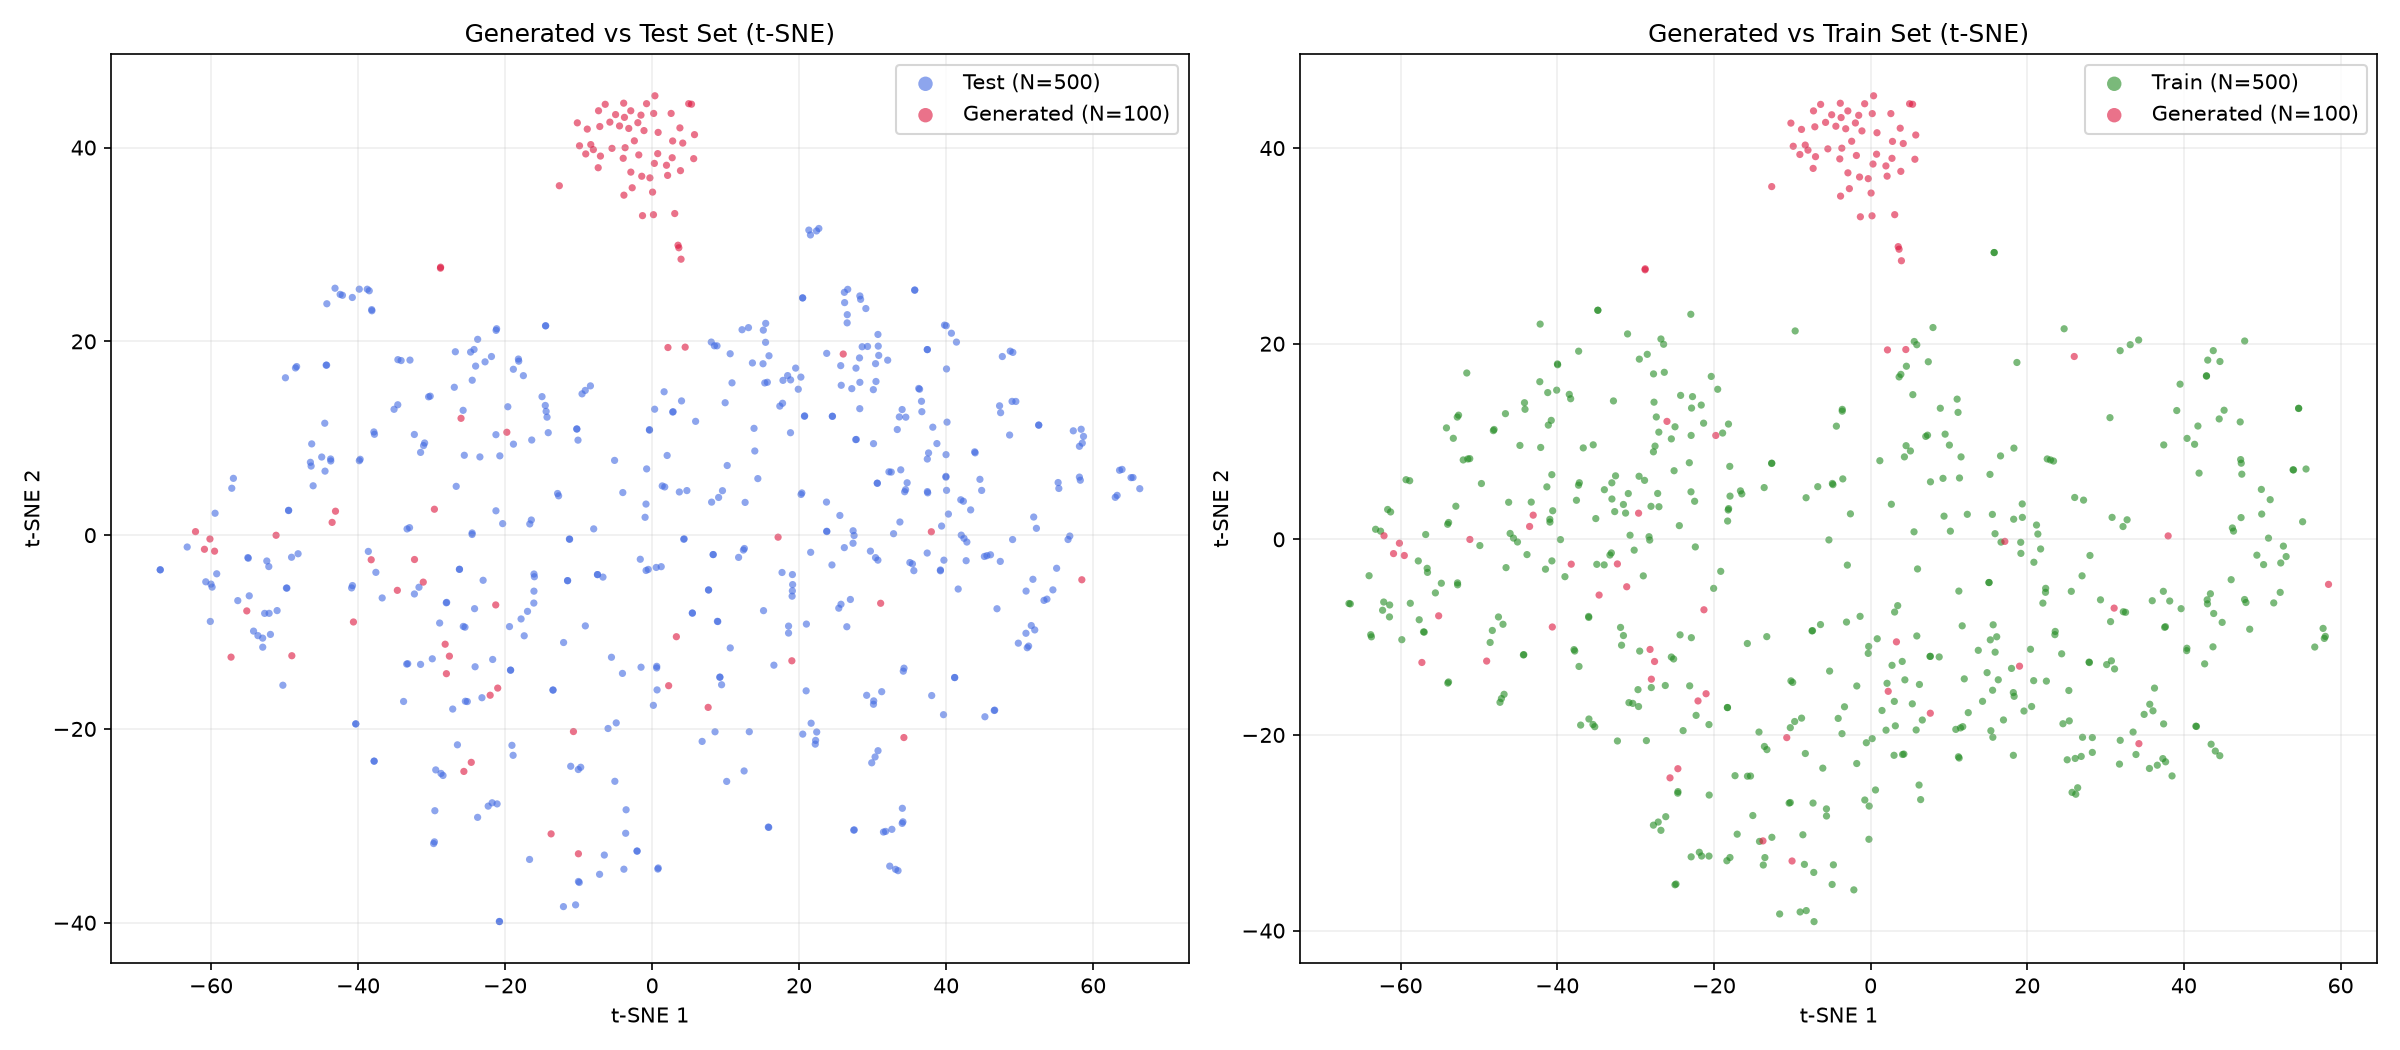
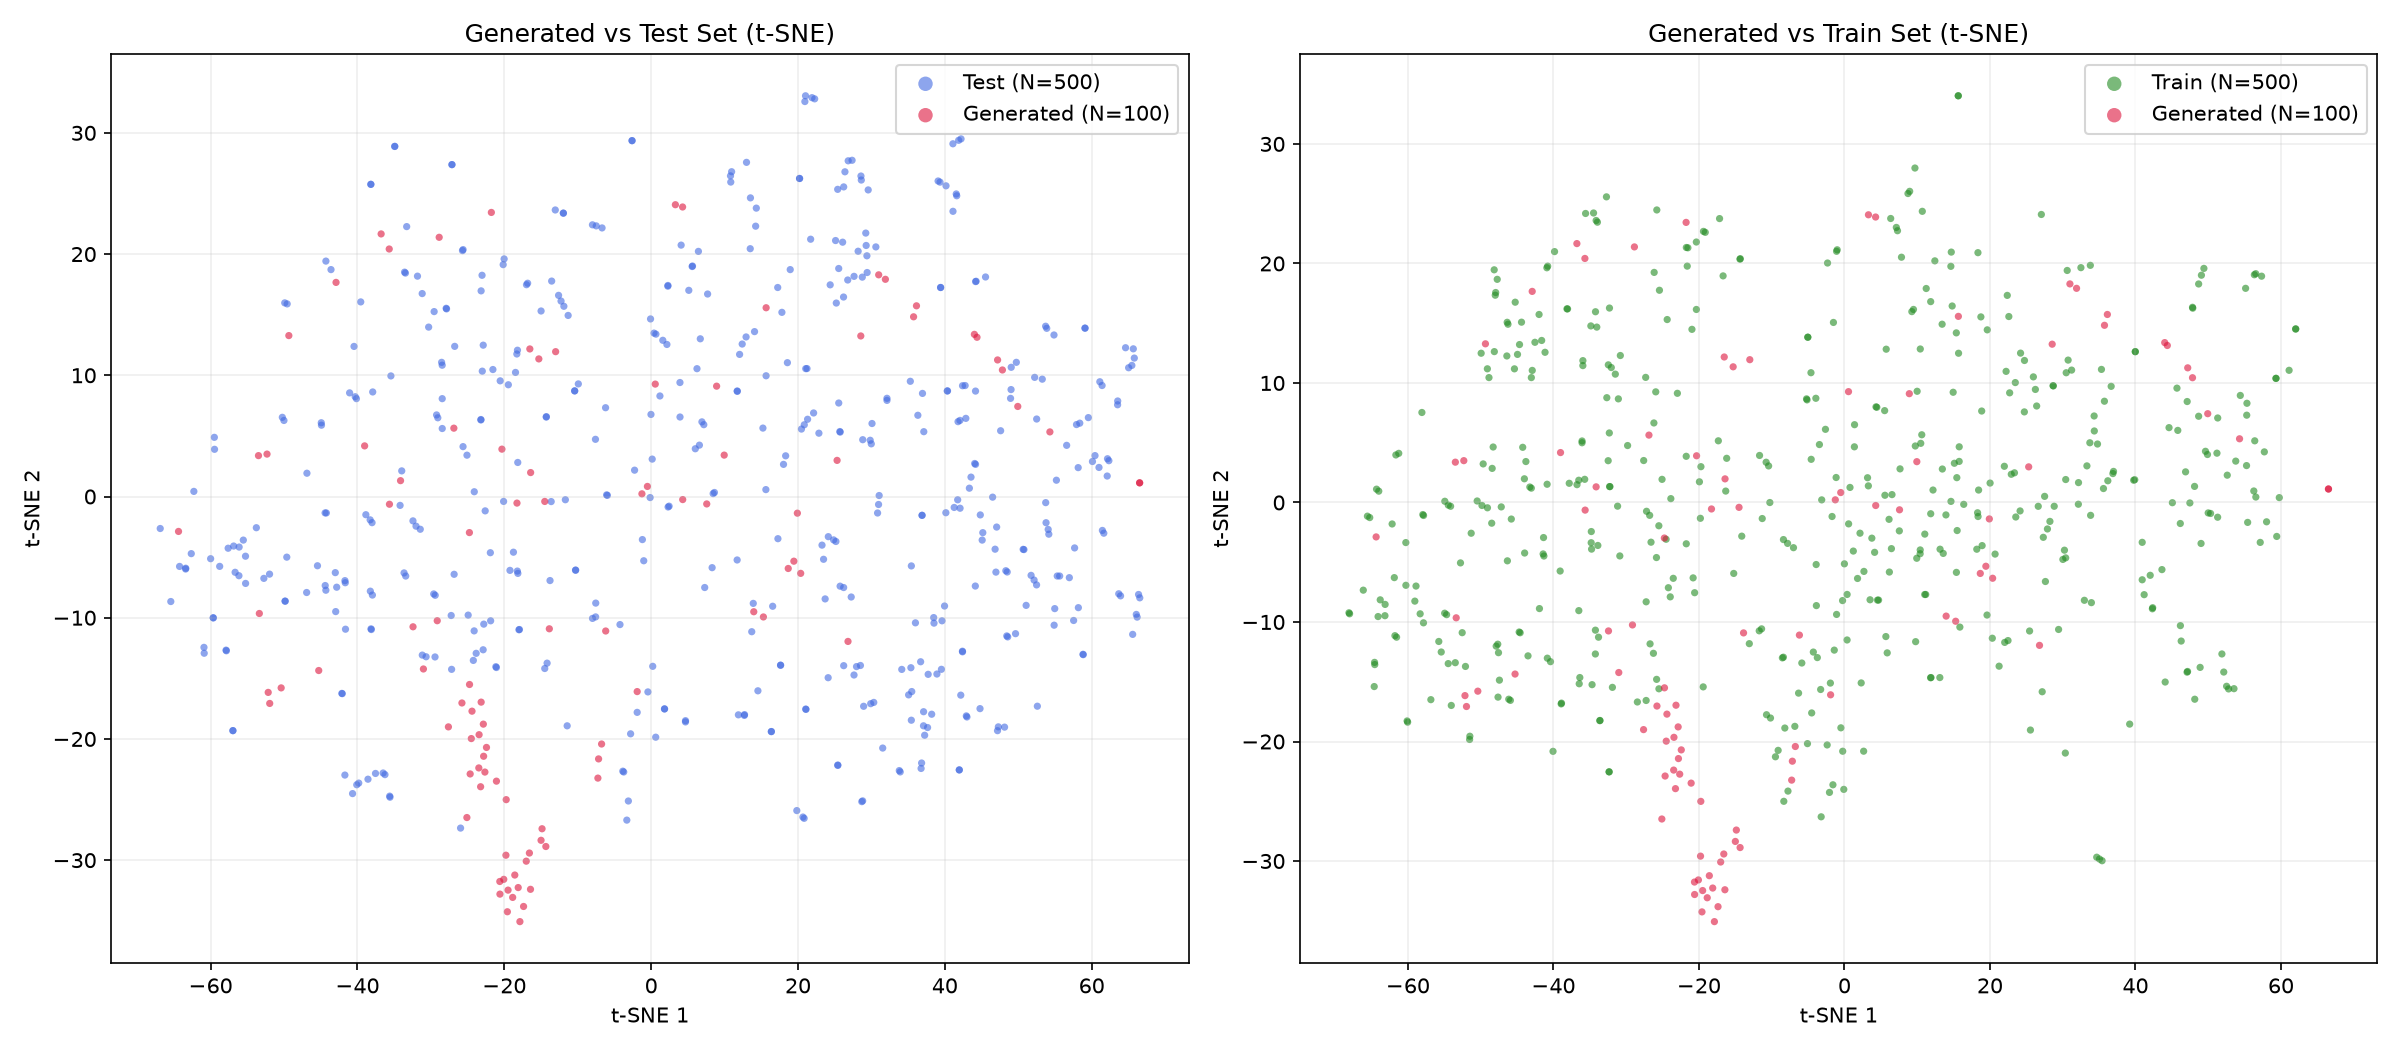
Added additional tsne visualization. Added table 5 to directly compare SSIM on test dataset.

diff --git a/recognition/stable-diffusion-48839529/README.md b/recognition/stable-diffusion-48839529/README.md
@@ -146,6 +146,19 @@ The results for the baseline VAE and VQ-VAE/Diffusion models are shown below:
 | 75 | 0.99 | 8.23 | 53.13 | Not copying |
 *Table 4: Diffusion Model Copying Results Table (With Laplacian Sharpness Loss)*
 
+| Epoch | VAE | VQVAE (Laplacian Sharpness) |
+|----:|----:|--------------------:|
+| 5 | 0.7702 | 0.9585 |
+| 10 | 0.7772 | 0.9647 |
+| 15 | 0.7820 | 0.9663 |
+| 20 | 0.7843 | 0.9681 |
+| 25 | 0.7848 | 0.9705 |
+| 30 | 0.7858 | 0.9706 |
+| 35 | 0.7845 | 0.9703 |
+| 40 | 0.7852 | 0.9713 |
+| 45 | 0.7855 | 0.9717 |
+| 50 | 0.7850 | 0.9722 |
+*Table 5: Evaluation of VAE versus VQVAE (sharness loss) on SSIM on the test dataset per epoch*
 
 The above tables provides sufficient evidence to accept the null hypothesis that the Stable Diffusion model does not copy training data. The VAE however, clearly does copy training data. Hence, this alone is highly convincing evidence that the Diffusion model should be prefered over the VAE for the research dilemma. 
 
@@ -153,9 +166,15 @@ The above tables provides sufficient evidence to accept the null hypothesis that
 
 Below is the TSNE plot for the diffusion model with sharpness penalty. 
 
-![TSNE Plot](./resources/tsne_visualization.png)
+![TSNE Plot Sharpness](./resources/tsne_visualization_sharpness.png)
 
-An interesting observation with this model is the bunching up of many samples in one area. This suggests either there is a bias with the sampling process that warrent further investigation. However, it is apparent with the samples distribution that the diffusion model is likely not copying the training set.
+An interesting observation with this model is the bunching up of many samples in one area. This suggests either there is a bias with the sampling process that warrent further investigation. 
+
+![TSNE Plot Regular](./resources/tsne_visualization.png)
+
+Above is the TSNE plot for the diffusion model trained without laplacian sharness. Since the tsne visualization was made in pixel space, this clearly shows that the bunching up from the sharness loss model was due to the sharpness loss itself.
+
+However, it is apparent with both models, that the samples distribution is likely not copying the training set. This further reinforces the Meehan test results. 
 
 ## Qualitative Analysis
 
